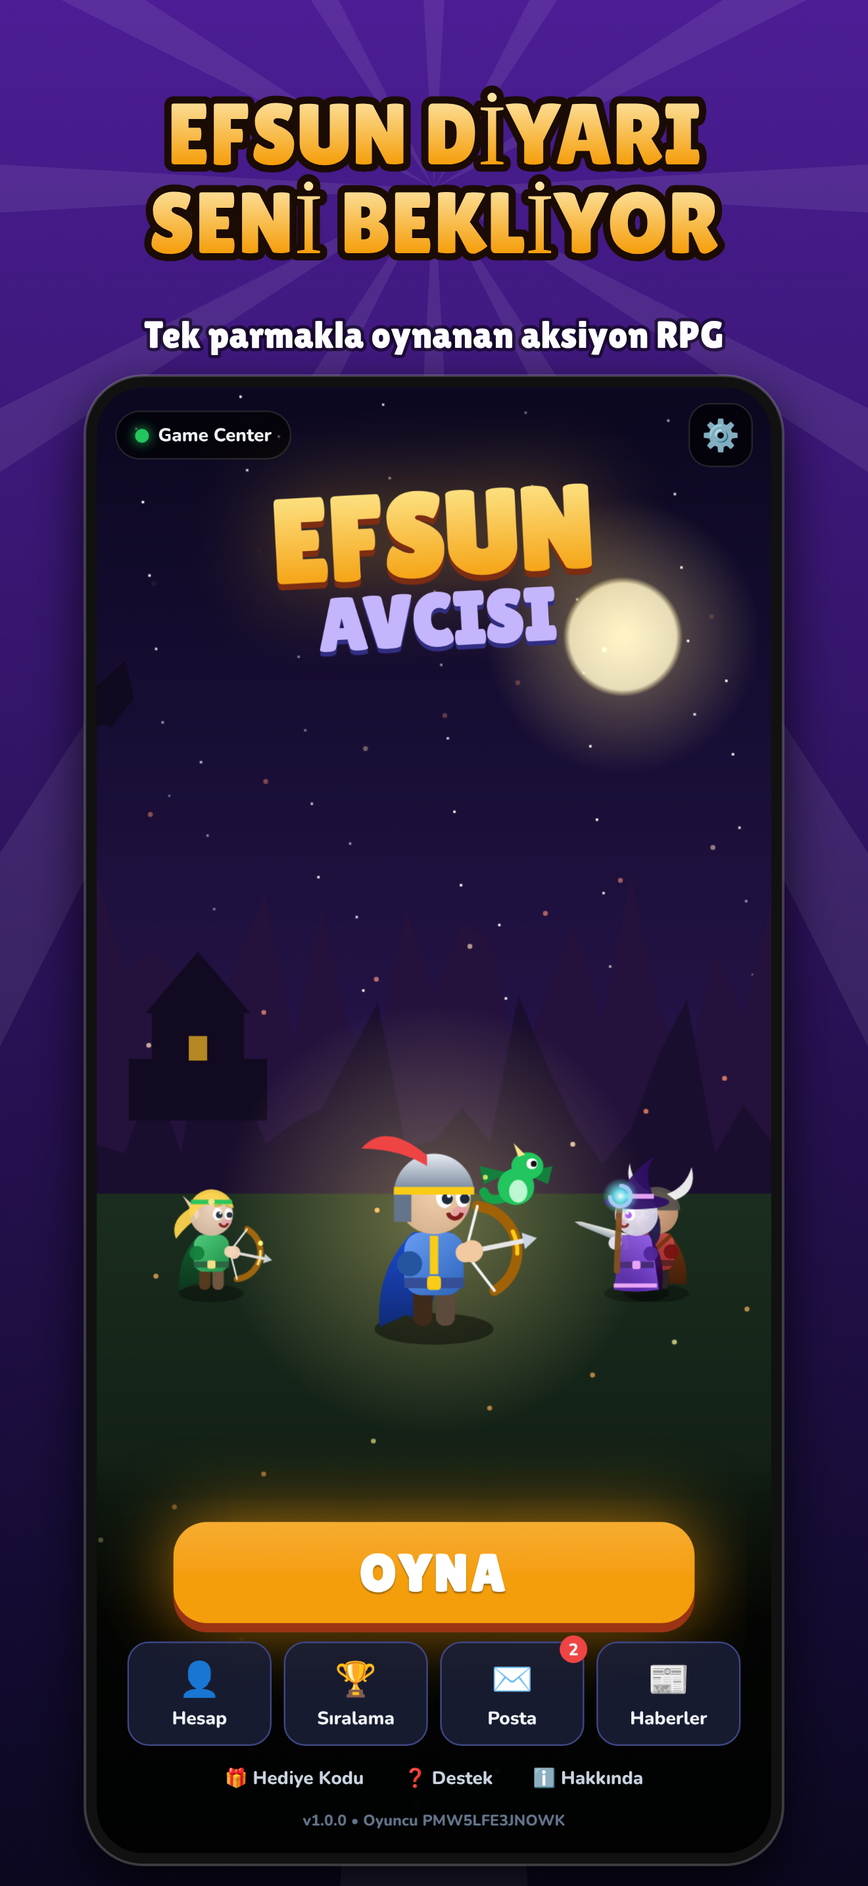
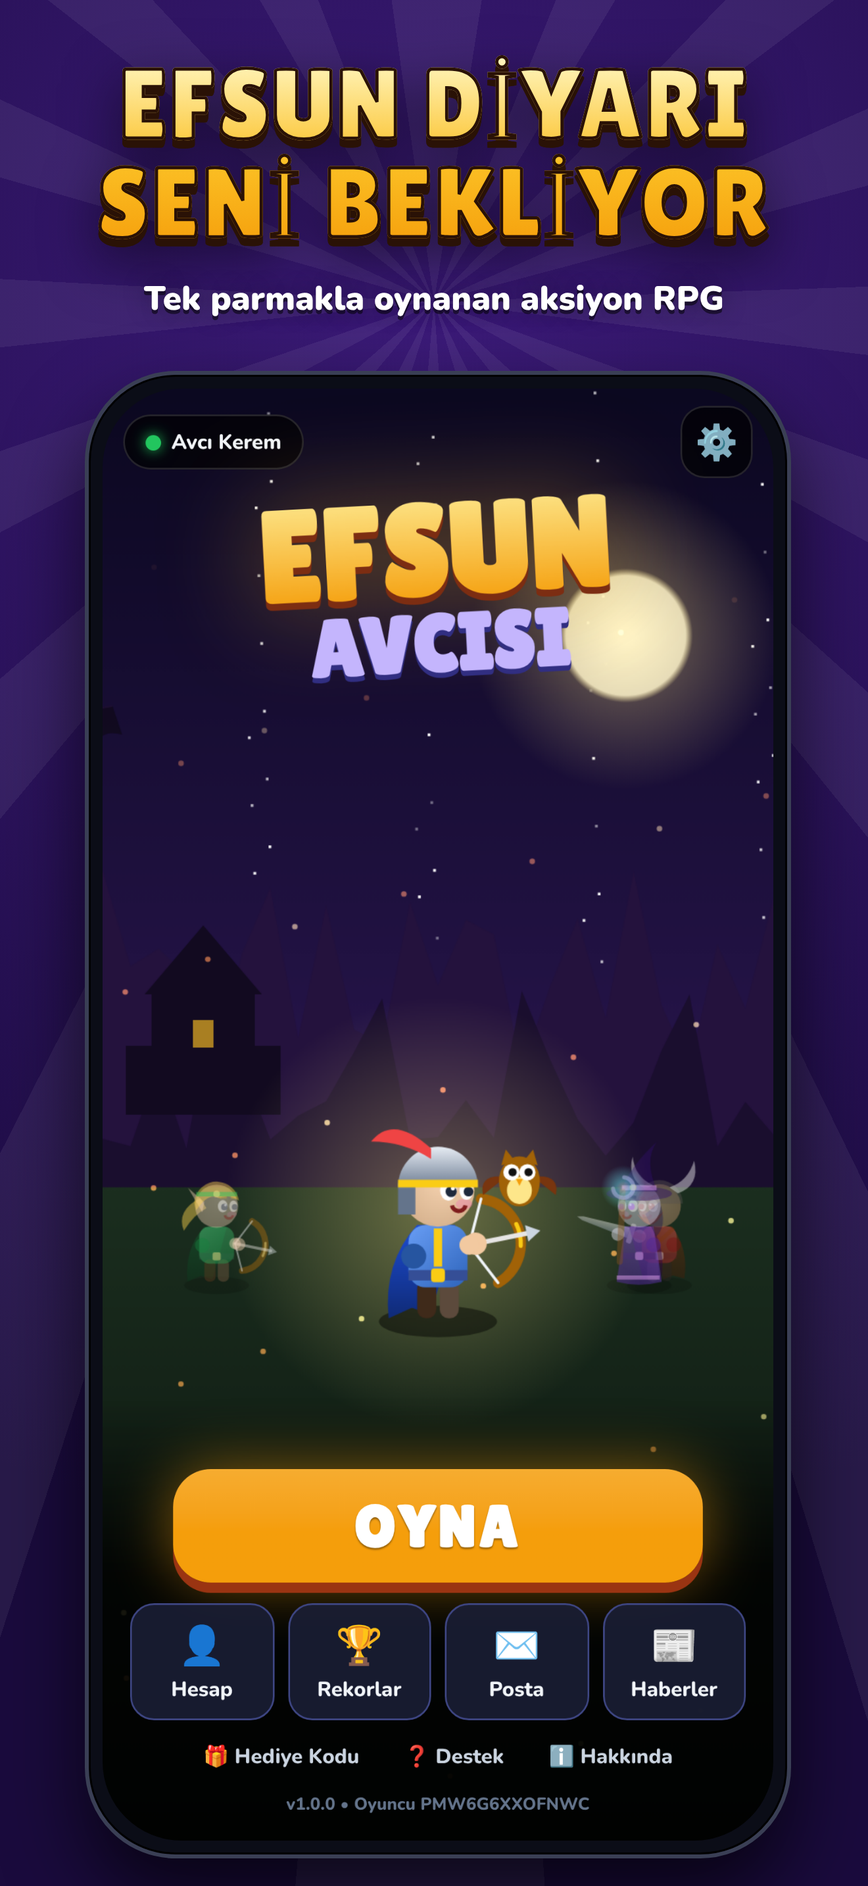
Store readiness for 1.0: new App Store screenshots, accurate listing, no placeholders
- Six new 1320x2868 screenshots (title, swarm, evolution, boss, arena, season);
  old ones showed Game Center, leaderboard and an ad icon that 1.0 does not have
- LISTING.md rewritten for 1.0 features (no ads, no leaderboard, no cloud save);
  character limits checked; age/ads classification updated
- Remove 'coming soon' placeholders (guideline 2.1): leaderboard becomes personal
  Records when there is no global board, English option hidden, account/FAQ texts
- About/FAQ no longer mention ads when ads are off
- Screenshot capture/compose scripts in promo/

Claude-Session: https://claude.ai/code/session_016sMKQkqpkxiYrCp2WRJgyR

diff --git a/game/js/menus.js b/game/js/menus.js
@@ -31,6 +31,7 @@ export function createMenus(app) {
     else $('#title-acc').innerHTML = links.length
       ? `<span class="dot on"></span>${links.map(l => esc(PROVIDERS[l].name)).join(' • ')}`
       : '<span class="dot"></span>Misafir hesap • <u>Bağla</u>';
+    const lb = $('#title [data-m=leader]'); if (lb && (!CONFIG.cloudUrl || app.account.appleOnly || !FEATURES.accounts)) lb.innerHTML = '<span>🏆</span>Rekorlar';
     const unread = mailCount();
     const b = $('#title [data-m=mail] .mbadge');
     if (b) { b.textContent = unread; b.hidden = !unread; }
@@ -108,7 +109,7 @@ export function createMenus(app) {
 
   // ================================================================ MENÜ LİSTESİ (lobide ☰)
   function openMenu() {
-    const items = [['home', '🏠', 'Ana Menü'], ['profile', '👤', 'Profil'], ['account', app.account.enabled ? '🔗' : '💾', app.account.enabled ? 'Hesap & Bulut' : 'Hesap & Yedek'], ['leader', '🏆', 'Sıralama'],
+    const items = [['home', '🏠', 'Ana Menü'], ['profile', '👤', 'Profil'], ['account', app.account.enabled ? '🔗' : '💾', app.account.enabled ? 'Hesap & Bulut' : 'Hesap & Yedek'], ['leader', '🏆', !CONFIG.cloudUrl || app.account.appleOnly || !FEATURES.accounts ? 'Rekorlar' : 'Sıralama'],
       ['mail', '✉', `Posta${mailCount() ? ` (${mailCount()})` : ''}`], ['news', '📰', 'Haberler'], ['code', '🎁', 'Hediye Kodu'], ['settings', '⚙', 'Ayarlar'], ['help', '❓', 'Destek & SSS'], ['about', 'ℹ', 'Hakkında']];
     const m = modal(`<h2>Menü</h2><div class="menu-list">${items.map(([k, i, n]) => `<button data-mm="${k}"><span>${i}</span>${n}<em>›</em></button>`).join('')}</div>`, { cls: 'menusheet' });
     m.el.addEventListener('click', e => { const b = e.target.closest('[data-mm]'); if (!b) return; m.close(); app.play('click'); open(b.dataset.mm); });
@@ -140,7 +141,7 @@ export function createMenus(app) {
         <h3>☁ Bulut Kaydı</h3>
         ${app.account.cloudAvailable() ? `<p class="muted small">${cloudOk ? `Son eşitleme: ${s.account.lastSync ? new Date(s.account.lastSync).toLocaleString('tr-TR') : 'henüz yok'} • 3 dakikada bir otomatik` : app.account.appleOnly ? 'Bulut kaydı için Apple ile giriş yap. Yeni iPhone\'da aynı Apple hesabıyla ilerlemen geri gelir.' : 'Bulut kaydı için Apple veya Google ile giriş yap.'}</p>
           <div class="row gap"><button class="btn blue" data-a="push" ${cloudOk ? '' : 'disabled'}>☁ Kaydet</button><button class="btn purple" data-a="pull" ${cloudOk ? '' : 'disabled'}>⬇ Yükle</button></div>`
-        : `<p class="muted small">Bulut kaydı çok yakında. O zamana kadar Ayarlar &gt; Kayıt kodu ile ilerlemeni yedekleyebilirsin.</p>`}
+        : `<p class="muted small">Ayarlar &gt; Yedek kodu ile ilerlemeni yedekleyebilirsin.</p>`}
         <div class="pid">Oyuncu kimliği: <b>${s.account.playerId}</b> <button class="btn small grey" data-a="copy">Kopyala</button></div>
         <details class="danger"><summary>Hesabı sil</summary>
           <p class="small">Hesabını silersen bu cihazdaki ve buluttaki tüm ilerlemen, eşyaların ve satın alma ödüllerin <b>kalıcı olarak</b> silinir. Bu işlem geri alınamaz.</p>
@@ -186,7 +187,7 @@ export function createMenus(app) {
   function backupOnly() {
     const s = S();
     const m = modal(`<h2>💾 Hesap & Yedek</h2>
-      <div class="acc-card warn"><b>🔜 Hesap bağlama çok yakında</b><small>Game Center ve Apple ile giriş sonraki güncellemede geliyor. Şimdilik ilerlemen bu telefonda saklanıyor. Telefon değiştirmeden ya da oyunu silmeden önce yedek kodu al ve notlarına kaydet.</small></div>
+      <div class="acc-card warn"><b>💾 İlerlemen bu telefonda</b><small>Telefon değiştirmeden ya da oyunu silmeden önce yedek kodu al ve notlarına kaydet. Yeni telefonda "Yedekten yükle" ile ilerlemen geri gelir.</small></div>
       <div class="col gap"><button class="btn blue" data-k="export">💾 Yedek kodu al</button><button class="btn grey" data-k="import">📥 Yedekten yükle</button></div>
       <div class="pid">Oyuncu kimliği: <b>${s.account.playerId}</b></div>`, { cls: 'acc' });
     m.el.addEventListener('click', e => { const b = e.target.closest('[data-k]'); if (!b) return; if (b.dataset.k === 'export') app.exportCode(); else app.importCode(); });
@@ -225,7 +226,7 @@ export function createMenus(app) {
           <div class="setrow"><span>🎨 Grafik</span><div class="seg"><button class="${st.quality === 'high' ? 'on' : ''}" data-q="high">Yüksek</button><button class="${st.quality === 'low' ? 'on' : ''}" data-q="low">Pil tasarrufu</button></div></div>
           <div class="setrow"><span>🎞 Kare hızı</span><div class="seg"><button class="${st.fps === 60 ? 'on' : ''}" data-f="60">60</button><button class="${st.fps === 30 ? 'on' : ''}" data-f="30">30</button></div></div></div>
         <div class="setgroup"><h4>Bildirimler</h4>${tg('notify', '⚡ Enerji dolunca haber ver')}</div>
-        <div class="setgroup"><h4>Dil</h4><div class="setrow"><span>🌐 Dil</span><div class="seg"><button class="on">Türkçe</button><button disabled>English (yakında)</button></div></div></div>
+        <div class="setgroup"><h4>Dil</h4><div class="setrow"><span>🌐 Dil</span><div class="seg"><button class="on">Türkçe</button></div></div></div>
         <div class="setgroup"><h4>Hesap & Veri</h4><div class="col gap">
           <button class="btn blue" data-b="account">${app.account.enabled ? '🔗 Hesap & Bulut' : '💾 Hesap & Yedek'}</button>
           <button class="btn grey" data-b="restore">🧾 Satın alımları geri yükle</button>
@@ -267,6 +268,7 @@ export function createMenus(app) {
 
   // ================================================================ SIRALAMA
   function leader() {
+    if (!CONFIG.cloudUrl || app.account.appleOnly || !FEATURES.accounts) return records();
     const s = S(), st = app.stats();
     const boards = [['chapter', '🗺 Bölüm'], ['arena', '🏟 Arena'], ['power', '⚡ Güç'], ['kills', '💀 Düşman'], ['combo', '🔥 Kombo']];
     let cur = 'chapter';
@@ -292,6 +294,17 @@ export function createMenus(app) {
       if (b) { cur = b.dataset.b; app.play('click'); draw(); }
       if (l) { m.close(); account(); }
     });
+  }
+
+  // Küresel sıralama olmayan sürümde: kişisel rekorlar
+  function records() {
+    const s = S(), st = app.stats();
+    const rows = [['🗺 En ileri bölüm', s.maxChapter - 1 ? `${s.maxChapter - 1}. bölüm` : '—'], ['🏟 Arena rekoru', s.arena.best ? `Dalga ${s.arena.best}` : '—'], ['⚡ Güç', app.fmt(st.power)],
+      ['🔥 En iyi kombo', s.stats.maxCombo || 0], ['💀 Toplam düşman', app.fmt(s.stats.kills)], ['👑 Boss avı', s.stats.bossKills], ['🏆 Zafer', s.stats.wins], ['🌟 Mitik eşya', s.stats.mythics]];
+    const ch = Object.entries(s.best).filter(([k]) => !k.includes(':')).sort((a, b) => +a[0] - +b[0]);
+    modal(`<h2>🏆 Rekorların</h2><div class="statgrid">${rows.map(([a, b]) => `<div><span>${a}</span><b>${b}</b></div>`).join('')}</div>
+      ${ch.length ? `<h3>Bölümler</h3><div class="statgrid">${ch.map(([k, v]) => `<div><span>${D.chapterInfo(+k).name}</span><b>${v >= 10 ? '✅ Temizlendi' : `Dalga ${Math.floor(v)}/10`}</b></div>`).join('')}</div>` : ''}
+      <p class="muted center small">Rekorlarını paylaş, arkadaşlarına meydan oku!</p>`, { cls: 'leader' });
   }
 
   // ================================================================ POSTA
@@ -346,7 +359,7 @@ export function createMenus(app) {
   function help() {
     const s = S();
     modal(`<h2>❓ Destek & SSS</h2>
-      <div class="faq">${D.FAQ.filter(([q]) => app.account.enabled || !q.startsWith('Hesabımı')).map(([q, a]) => [q, !q.startsWith('İlerlemem') ? a : !app.account.enabled ? 'Şimdilik ilerlemen bu telefonda saklanıyor. Ana Menü > Hesap > Yedek kodu al ile kodunu notlarına kaydet; yeni telefonda Yedekten yükle ile geri getirirsin. Hesap bağlama yakında geliyor.' : app.account.appleOnly ? 'Ana Menü > Hesap\'tan Apple ile giriş yaparsan ilerlemen buluta kaydedilir. Yeni iPhone\'da aynı Apple hesabıyla giriş yapınca geri gelir. Giriş yapmazsan ilerleme sadece bu telefonda kalır.' : a]).map(([q, a]) => `<details><summary>${esc(q)}</summary><p>${esc(a)}</p></details>`).join('')}</div>
+      <div class="faq">${D.FAQ.filter(([q]) => app.account.enabled || !q.startsWith('Hesabımı')).map(([q, a]) => [q, !q.startsWith('İlerlemem') ? a : !app.account.enabled ? 'Şimdilik ilerlemen bu telefonda saklanıyor. Ana Menü > Hesap > Yedek kodu al ile kodunu notlarına kaydet; yeni telefonda Yedekten yükle ile geri getirirsin. ' : app.account.appleOnly ? 'Ana Menü > Hesap\'tan Apple ile giriş yaparsan ilerlemen buluta kaydedilir. Yeni iPhone\'da aynı Apple hesabıyla giriş yapınca geri gelir. Giriş yapmazsan ilerleme sadece bu telefonda kalır.' : a]).map(([q, a]) => `<details><summary>${esc(q)}</summary><p>${esc(a)}</p></details>`).join('')}</div>
       <div class="pid">Oyuncu kimliğin: <b>${s.account.playerId}</b></div>
       ${CONFIG.supportEmail ? `<a class="btn blue wide" href="mailto:${CONFIG.supportEmail}?subject=${encodeURIComponent('Efsun Avcısı Destek - ' + s.account.playerId)}&body=${encodeURIComponent(`Oyuncu: ${s.account.playerId}\nSürüm: ${D.GAME.version}\nCihaz: ${navigator.userAgent}\n\nSorun:\n`)}">✉ Destek ekibine yaz</a>` : ''}`, { cls: 'helpbox' });
   }
@@ -355,7 +368,7 @@ export function createMenus(app) {
     modal(`<div class="logo small"><span>EFSUN</span><span>AVCISI</span></div>
       <p class="center">Sürüm ${D.GAME.version}</p>
       <div class="about">
-        <p><b>Ebeveynler için:</b> Bu oyun isteğe bağlı uygulama içi satın almalar ve reklamlar içerir. Satın almaları cihazınızın ayarlarından (Ekran Süresi / Google Play ebeveyn denetimleri) kısıtlayabilirsiniz.</p>
+        <p><b>Ebeveynler için:</b> Bu oyun isteğe bağlı uygulama içi satın almalar${FEATURES.ads ? ' ve reklamlar' : ''} içerir. Satın almaları cihazınızın ayarlarından (Ekran Süresi / Google Play ebeveyn denetimleri) kısıtlayabilirsiniz.</p>
         <p><b>Yazı tipleri:</b> Lilita One, Nunito — SIL Open Font License 1.1</p>
         <p><b>Grafik ve sesler:</b> oyun içinde kodla üretilmiştir.</p>
         <div class="row gap"><button class="btn grey small" data-doc="privacy">🔐 Gizlilik</button><button class="btn grey small" data-doc="terms">📄 Şartlar</button></div>

diff --git a/game/js/data.js b/game/js/data.js
@@ -376,7 +376,7 @@ export const FAQ = [
   ['İlerlemem kaybolur mu?', 'Hesabını Game Center / Google Play Games veya Apple / Google ile bağlarsan ilerlemen buluta kaydedilir ve yeni telefonda geri yüklenir. Bağlamazsan ilerleme sadece bu cihazda kalır.'],
   ['Satın aldığım şey gelmedi', 'Ayarlar > Satın alımları geri yükle\'ye dokun. Sorun sürerse oyuncu kimliğinle destek ekibine yaz.'],
   ['Sandık olasılıkları nedir?', 'Mağazada her sandığın üzerindeki % düğmesinde tüm olasılıklar ve şans koruması yazılıdır.'],
-  ['Enerji nasıl dolar?', 'Her 5 dakikada 1 enerji dolar. Reklam izleyerek, elmasla veya Aylık Kart ile daha fazla enerji alabilirsin.'],
+  ['Enerji nasıl dolar?', 'Her 5 dakikada 1 enerji dolar. Enerji ekranındaki günlük hediyeyle, elmasla veya Aylık Kart ile daha fazla enerji alabilirsin.'],
   ['Oyun çok zor', 'Ekipmanını yükselt, 3 aynı eşyayı birleştir, Gelişim\'te yetenek al. Önerilen gücün altındaysan önceki bölümleri tekrar oynayıp ganimet topla.'],
   ['Hesabımı nasıl silerim?', 'Ana Menü > Hesap > Hesabı Sil. Buluttaki tüm verilerin kalıcı olarak silinir.'],
 ];

diff --git a/game/store/LISTING.md b/game/store/LISTING.md
@@ -4,81 +4,88 @@ Karakter sınırları mağaza kurallarına göre kontrol edildi. Önce Türkçe 
 
 ## Türkçe
 
-**Uygulama adı** (App Store en fazla 30, Google Play en fazla 30 karakter)
+> **Sürüm 1.0 için yazıldı:** reklam, hesap bağlama, bulut kaydı ve küresel sıralama bu sürümde **yok**, metinde de geçmiyor (Apple, uygulamada olmayan özelliği anlatan metni reddeder). Apple ile Giriş açılınca "Apple ile giriş ve bulut kaydı" satırını ekle.
+
+**Uygulama adı** (en fazla 30)
 > Efsun Avcısı: Aksiyon RPG
 
-**Alt başlık** (App Store en fazla 30)
-> Efsunla, birleştir, bossu yen
+**Alt başlık** (en fazla 30)
+> Evrimleştir, efsunla, boss yen
 
-**Kısa açıklama** (Google Play en fazla 80)
-> Tek parmakla aksiyon RPG! Eşyalarını efsunla, setleri tamamla, dev bossları yen.
+**Tanıtım metni** (en fazla 170, istediğin zaman güncellenebilir)
+> Her ay yeni sezon! Sonsuz Arenada rekor kır, güçlerini evrimleştir, dev bossları yen. Kalıcı aura ve kostüm yalnızca şampiyonlara. Reklam yok!
 
-**Tanıtım metni** (App Store en fazla 170, istediğin zaman güncellenebilir)
-> Efsun Diyarı seni bekliyor! 5 bölüm, 6 dev boss ve yüzlerce eşya. Normal, Zor ve Kabus seviyelerinde ne kadar ileri gidebilirsin?
-
-**Anahtar kelimeler** (App Store en fazla 100, virgülle, boşluksuz)
-> rpg,aksiyon,hayatta kalma,okçu,büyü,boss,ejder,kılıç,roguelike,zindan,kahraman,macera,türkçe
+**Anahtar kelimeler** (en fazla 100, virgülle, boşluksuz)
+> rpg,aksiyon,hayatta kalma,okçu,büyü,boss,arena,roguelike,zindan,kahraman,sezon,ejder,türkçe
 
 **Açıklama** (en fazla 4000)
 ```
-Efsun Diyarı karanlığa gömüldü. Kılıcını, yayını ya da asanı kuşan ve sürülerle dolu bölümleri temizle!
+Efsun Diyarı karanlığa gömüldü. Kılıcını, yayını ya da asanı kuşan, sürülerle dolu bölümleri temizle!
 
 ⚔ TEK PARMAKLA OYNA
 Ekranda sürükleyerek hareket et, saldırı otomatik! Düşman mermilerinden kaç, ganimetleri topla, kısa ve heyecanlı savaşların tadını çıkar.
 
-🌟 HER SEVİYEDE YENİ GÜÇ
-Seviye atladıkça 19 güçten birini seç: çoklu atış, ateş küreleri, yıldırım, meteor yağmuru, buz halkası… Her savaşta farklı bir kombinasyon kur.
+🧬 GÜÇLERİNİ EVRİMLEŞTİR
+Seviye atladıkça 19 güçten birini seç: çoklu atış, ateş küreleri, yıldırım, meteor, buz halkası… Doğru ikiliyi tamamla, 6 süper evrimden birini aç: Güneş Çemberi, Kasırga, Gök Hükmü, Mutlak Sıfır, Kıyamet Yağmuru, Kutsal Aura.
 
 🐉 DEV BOSSLAR
-Yaşlı Kökdev, Kum Akrebi, Ayaz Kraliçesi, Gölge Ejder ve Magma Titanı seni bekliyor. Kırmızı uyarıları izle, saldırılardan kaç, ganimeti kap!
+Yaşlı Kökdev, Kum Akrebi, Ayaz Kraliçesi, Gölge Ejder ve Magma Titanı seni bekliyor. Kırmızı uyarıları izle, saldırılardan kaç, hazine sandığını kap!
+
+🏟 SONSUZ ARENA
+Bitmeyen dalgalara karşı ne kadar dayanabilirsin? Her 5 dalgada bir boss, her 5 dalgada yeni bir bölge. Rekorunu kır, ödülleri topla.
+
+🏆 HER AY YENİ SEZON
+Her ay yeni bir tema ve sadece o sezona özel bir efsanevi set. Zorlu sezon görevlerini bitir, puan topla. Kalıcı aura animasyonu, kalıcı kostüm ve "Sezon Şampiyonu" unvanı yalnızca en iyilere!
 
 ✨ DERİN EKİPMAN SİSTEMİ
 • 6 ekipman yuvası, Sıradan'dan Mitik'e 6 nadirlik
 • 19 farklı efsun: kilitle, yeniden çek, mükemmel efsunun peşine düş
 • 3 aynı eşyayı birleştir, nadirliği yükselt
-• 4 parça set tamamla, özel güçleri aç: ateş patlaması, dondurucu dalga, yıldırım çağrısı
+• 4 parça set tamamla, özel güçleri aç
 
 🦸 KAHRAMANLAR VE EVCİL DOSTLAR
-Kale Muhafızı Kaya, Rüzgâr Okçusu Lina, Kan Çılgını Zerk ve Gölge Cadısı Nyx. Her birinin kendine özgü gücü var. Yanına Bilge Baykuş, Ruh Tilkisi ya da Yavru Ejder'i al!
+Kale Muhafızı Kaya, Rüzgâr Okçusu Lina, Kan Çılgını Zerk ve Gölge Cadısı Nyx, her birinin kendine özgü gücü var. Yanına Bilge Baykuş, Ruh Tilkisi ya da Yavru Ejder'i al!
 
 🔥 ZORLUK SEVİYELERİ
 Her bölümü Normal, Zor ve Kabus seviyelerinde oyna. Zorlaştıkça ganimet de büyür!
 
-🏆 VE DAHA FAZLASI
+🎯 VE DAHA FAZLASI
+• Bitmeyen kademeli başarımlar: aldıkça hedef yükselir
 • Günlük görevler, giriş ödülleri ve Günün Mücadelesi
-• Sezon bileti ve başarımlar
-• Küresel sıralama: bölüm, güç ve kombo tabloları
-• Game Center / Google Play Oyunlar ile hesap ve bulut kaydı
-• İnternetsiz de oynanabilir
+• Efsun Bileti (her sezon yenilenir)
+• Temizlediğin bölümleri Hızlı Tarama ile geç
+• Reklam yok, internetsiz de oynanır
 
-Efsun Avcısı ücretsiz oynanır. İsteğe bağlı uygulama içi satın almalar ve ödüllü reklamlar içerir. Sandık olasılıkları oyun içinde mağazada yayımlanır.
+Efsun Avcısı ücretsiz oynanır ve isteğe bağlı uygulama içi satın almalar içerir. Sandık olasılıkları oyun içindeki mağazada yayımlanır. Efsun Bileti 1 sezon (1 takvim ayı) geçerlidir.
 
 Gizlilik Politikası: {{GIZLILIK_URL}}
 Kullanım Şartları: {{SARTLAR_URL}}
 ```
 
 **Bu sürümdeki yenilikler**
-> Efsun Avcısı yayında! 5 bölüm, 6 boss, 4 kahraman, efsun ve set sistemi, zorluk seviyeleri ve küresel sıralama. İyi avlar!
+> Efsun Avcısı yayında! 5 bölüm, 6 boss, 4 kahraman, 6 süper evrim, sonsuz Arena ve her ay yeni sezon. İyi avlar!
 
 ## English
 
-**Name:** Spell Hunter: Action RPG  •  **Subtitle:** Enchant, merge, defeat bosses
-**Short description:** One-finger action RPG! Enchant your gear, complete sets and defeat giant bosses.
-**Keywords:** rpg,action,survival,archer,magic,boss,dragon,sword,roguelike,dungeon,hero,adventure
+**Name:** Spell Hunter: Action RPG  •  **Subtitle:** Enchant, evolve, defeat bosses
+**Promotional text:** A new season every month! Break records in the endless Arena, evolve your powers, defeat giant bosses. Permanent aura and costume for champions only. No ads!
+**Keywords:** rpg,action,survival,archer,magic,boss,arena,roguelike,dungeon,hero,season,dragon
 
 **Description**
 ```
 The Spell Realm has fallen into darkness. Grab your sword, bow or staff and clear chapters swarming with monsters!
 
 ⚔ ONE-FINGER CONTROLS: drag to move, attacks are automatic. Dodge bullets, grab loot, enjoy short and intense battles.
-🌟 NEW POWER EVERY LEVEL: choose from 19 skills (multishot, fire orbs, lightning, meteors, frost ring…) and build a new combo every run.
+🧬 EVOLVE YOUR POWERS: choose from 19 skills every level and unlock 6 super evolutions by combining the right pair.
 🐉 GIANT BOSSES with telegraphed attacks: watch the red warnings and dodge!
-✨ DEEP GEAR: 6 slots, 6 rarities, 19 enchantments you can lock and reroll, merge 3 identical items to upgrade, complete 4-piece sets for special powers.
+🏟 ENDLESS ARENA: how many waves can you survive? A boss every 5 waves, a new region every 5 waves.
+🏆 A NEW SEASON EVERY MONTH: a season-only legendary set and hard season tasks. Permanent aura, costume and "Season Champion" title for the best players only.
+✨ DEEP GEAR: 6 slots, 6 rarities, 19 enchantments you can lock and reroll, merge 3 identical items, complete 4-piece sets for special powers.
 🦸 4 HEROES & PETS, each with a unique passive.
 🔥 DIFFICULTIES: Normal, Hard and Nightmare with bigger rewards.
-🏆 Daily quests, login rewards, season pass, achievements, global leaderboards, cloud save, offline play.
+🎯 Endless tiered achievements, daily quests, login rewards, season pass, quick sweep. No ads, plays offline.
 
-Free to play. Contains optional in-app purchases and rewarded ads. Loot box odds are published in the in-game shop. Game text is in Turkish.
+Free to play with optional in-app purchases. Loot box odds are published in the in-game shop. The season pass is valid for one season (one calendar month). Game text is in Turkish.
 ```
 
 ## Kategori ve sınıflandırma
@@ -86,10 +93,10 @@ Free to play. Contains optional in-app purchases and rewarded ads. Loot box odds
 | Alan | Değer |
 |---|---|
 | Kategori | Oyunlar > Aksiyon (ikincil: Rol Yapma) |
-| Hedef kitle | **13 yaş ve üzeri**. Çocuklara yönelik değil, çünkü uygulama içi satın almalar, rastgele ödüllü sandıklar ve reklamlar içeriyor |
+| Hedef kitle | **13 yaş ve üzeri**. Çocuklara yönelik değil, çünkü uygulama içi satın almalar ve rastgele ödüllü sandıklar içeriyor |
 | Apple yaş derecelendirmesi | Çizgi film/fantastik şiddet: **Seyrek/Hafif**. Sıklıkla/yoğun simüle kumar: **Hayır**. Kaba mizah, korku, kan: **Yok**. Rastgele ödüller ("loot box"): **Evet** (olasılıklar yayımlanıyor) |
-| Google Play IARC anketi | Şiddet: fantastik karakterlere karşı çizgi film şiddeti. Kumar: hayır (gerçek para kazanılmaz). Rastgele ödüllü dijital satın almalar: **Evet**. Kullanıcı etkileşimi: sıralamada oyuncu adı görünür |
-| Reklam içeriyor mu | Evet (ödüllü reklamlar) |
+| Google Play IARC anketi | Şiddet: fantastik karakterlere karşı çizgi film şiddeti. Kumar: hayır (gerçek para kazanılmaz). Rastgele ödüllü dijital satın almalar: **Evet**. Kullanıcı etkileşimi: yok (1.0'da küresel sıralama yok) |
+| Reklam içeriyor mu | **Hayır** (1.0). Reklamlar açılırsa Evet |
 | Uygulama içi satın alma | Evet |
 | Destek URL'si | {{DESTEK_URL}} (ya da `mailto:` adresi) |
 | Gizlilik politikası URL'si | {{GIZLILIK_URL}} |

diff --git a/game/DURUM.md b/game/DURUM.md
@@ -24,6 +24,9 @@ Tek parmakla oynanan dikey aksiyon RPG. Tamamen `game/` klasöründe, saf HTML5/
 ## Son eklenenler (benzer oyunlar incelendi: Archero, Survivor.io)
 Beceri evrimleri (6), savaş içi hazine sandığı, savaş sonu hasar dökümü, Hızlı Tarama (günde 3), kahraman parçası kaynakları (önceden parça kazanmanın yolu yoktu, kahraman seviyesi atlanamıyordu). Ardından: Arena (sonsuz dalga modu), sonsuz/kademeli başarımlar, daha zor denge (`TUNE`) ve aylık sezonlar (özel set, kalıcı aura/kostüm/unvan; Efsun Bileti her ay sıfırlanır). Ayrıntı: `README.md` > Evrimler, Arena, Sonsuz başarımlar.
 
+## Mağaza görselleri ve metinleri (1.0 için güncel)
+`store/app-store/screenshot-1..6.png` (1320×2868): başlık, sürü savaşı, evrim, boss, Arena, sezon. Eski görsellerde 1.0'da olmayan Game Center, sıralama ve reklam simgesi vardı; değiştirildi. Yeniden üretmek: `promo/store-shots-capture.cjs` + `promo/store-shots-compose.cjs`. `store/LISTING.md` 1.0 özelliklerine göre yeniden yazıldı (reklam/sıralama/bulut yok). Oyundaki "yakında" yer tutucuları kaldırıldı (Sıralama → kişisel Rekorlar).
+
 ## Yayın durumu: yalnızca App Store, hesapsız ve reklamsız ilk sürüm
 Telefon rehberi: **`game/store/APP-STORE-YAYIN.md`** (adım adım)
 
